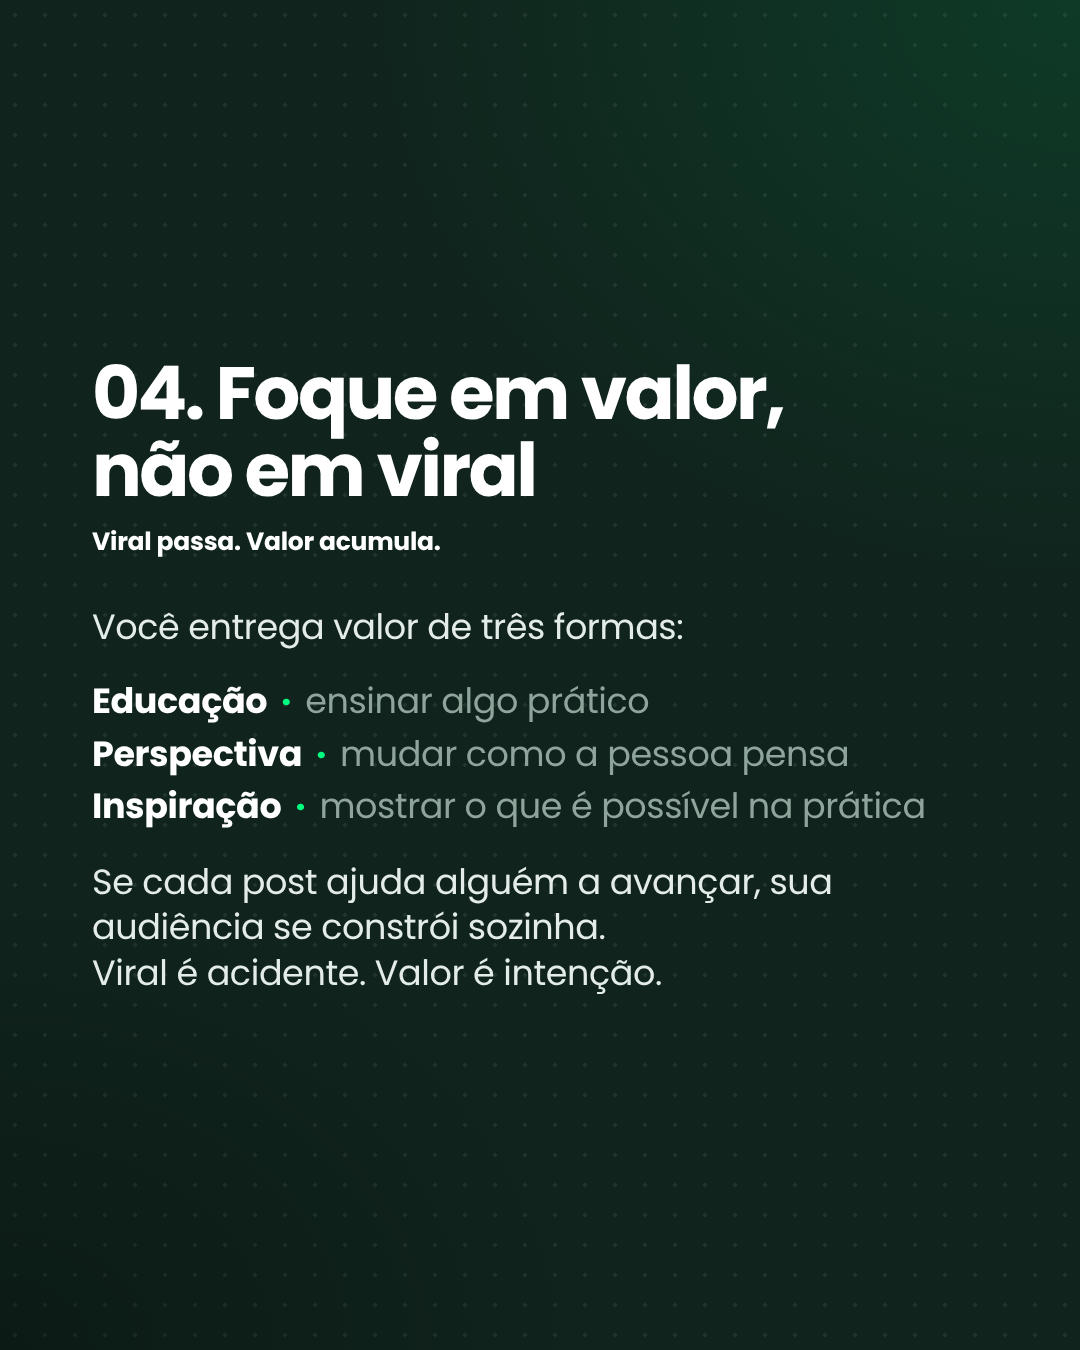
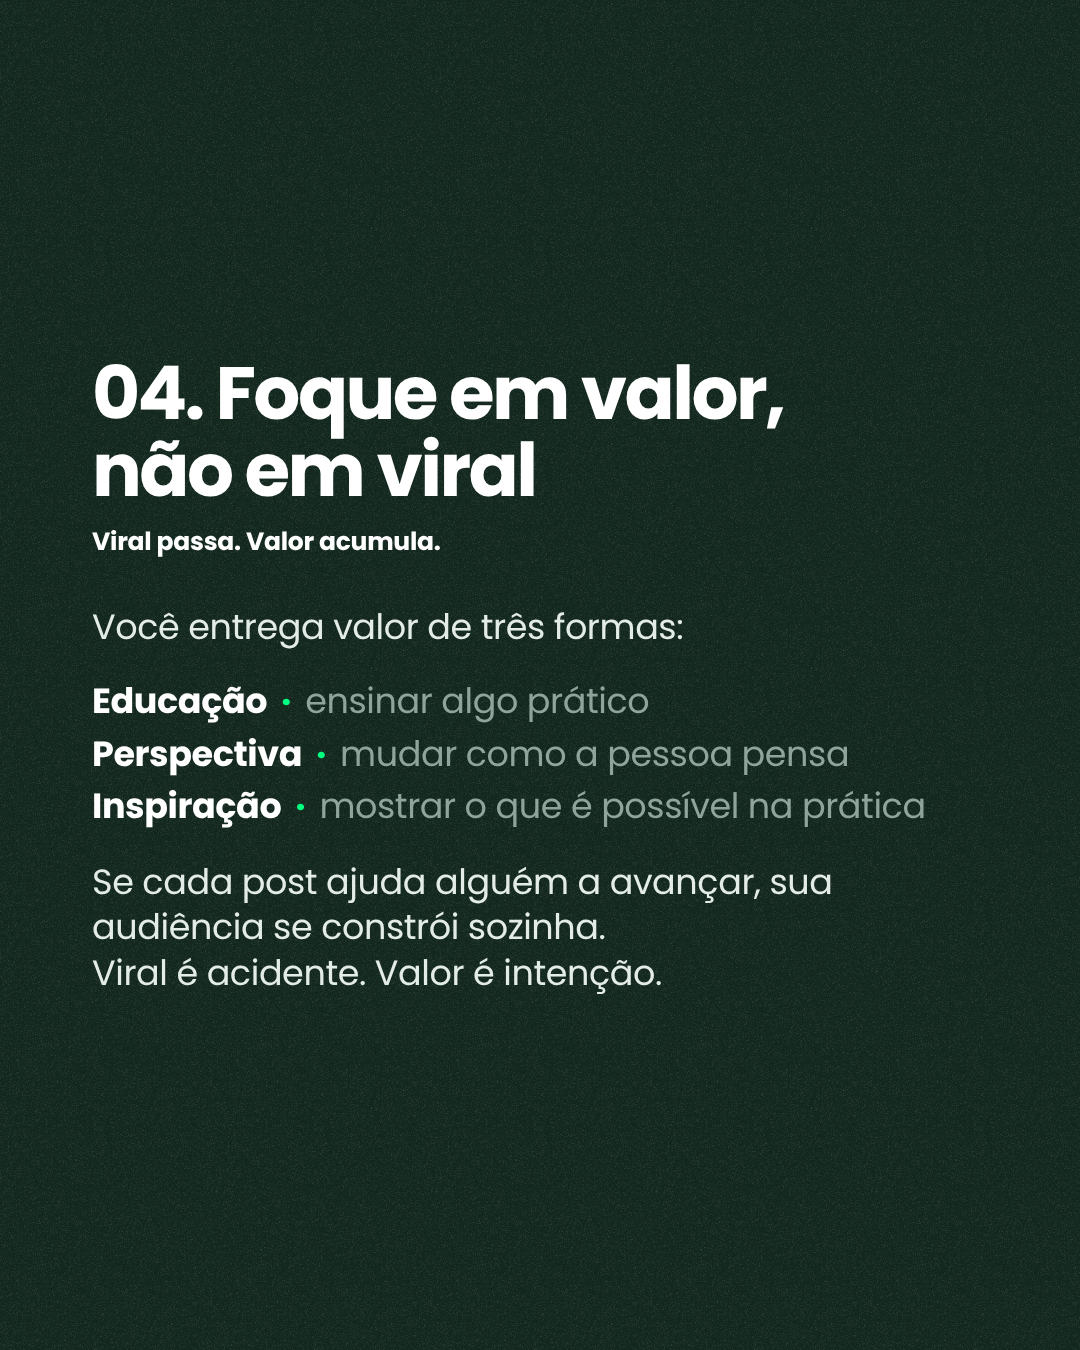
Verde flat com granulado vintage, sem gradiente
Claude-Session: https://claude.ai/code/session_01CR2zLXebwu2nvAjBiSDjK9

diff --git a/carrossel/index.html b/carrossel/index.html
@@ -68,7 +68,7 @@ body.render .frame .num{display:none}
   position:relative;width:1080px;height:1350px;overflow:hidden;background:var(--bg);color:var(--ink);
   font-family:Poppins,sans-serif;-webkit-font-smoothing:antialiased;
 }
-.slide.t-escuro{--bg:#10241D;--ink:#FFFFFF;--body:#E3ECE8;--muted:#8FA59C;--grid:rgba(255,255,255,.045);--glow:rgba(0,0,0,0);--ac:#00FF80}
+.slide.t-escuro{--bg:#14291F;--ink:#FFFFFF;--body:#E3ECE8;--muted:#8FA59C;--grid:rgba(255,255,255,.045);--glow:rgba(0,0,0,0);--ac:#00FF80}
 .slide b,.slide strong{font-weight:700;color:var(--ink)}
 .slide em{font-style:normal;color:var(--ac)}
 .cta em{font-weight:700}
@@ -80,8 +80,8 @@ body.render .frame .num{display:none}
 .paper::after{content:"";position:absolute;inset:0;pointer-events:none;
   background:radial-gradient(900px 700px at 0% 0%,var(--glow),transparent 70%)}
 .paper>*{position:relative;z-index:2}
-.t-escuro.paper::before{background-image:radial-gradient(rgba(255,255,255,.075) 1.6px,transparent 1.8px);background-size:30px 30px;background-position:0 0}
-.t-escuro.paper::after{background:radial-gradient(1100px 900px at 100% 0%,rgba(0,255,128,.10),transparent 65%),radial-gradient(900px 700px at 0% 100%,rgba(0,0,0,.28),transparent 70%)}
+.t-escuro.paper::before{background-image:url(grain.png);background-size:220px 220px;opacity:.9}
+.t-escuro.paper::after{background:none}
 /* cabeçalho */
 .hd{position:absolute;left:92px;right:92px;top:58px;display:flex;justify-content:space-between;align-items:center;z-index:5}
 .mark{font:900 68px/1 "Source Serif 4",serif;letter-spacing:-.04em;color:var(--ink);display:flex;align-items:center}

diff --git a/carrossel/ESTILO.md b/carrossel/ESTILO.md
@@ -13,7 +13,7 @@ O gerador avisa (e pede confirmação ao exportar) se a capa não tem foto ou se
 ## Visual
 | Elemento | Especificação |
 |---|---|
-| Fundo | Branco `#FFF` com grade fina na maioria; 1 ou 2 slides em verde Trives escuro `#10241D` com pontos finos + luz verde no canto (sem grade) |
+| Fundo | Branco `#FFF` com grade fina na maioria; 1 ou 2 slides em verde Trives escuro `#10241D` flat com granulado leve (vintage), sem grade e sem gradiente |
 | Texto | Preto `#111` no branco · branco no verde |
 | Destaque | Verde `#0E6B47` no branco · verde Trives `#00FF80` no verde escuro. Fotos sempre coloridas |
 | Topo | Nada (sem logo e sem nome) |
